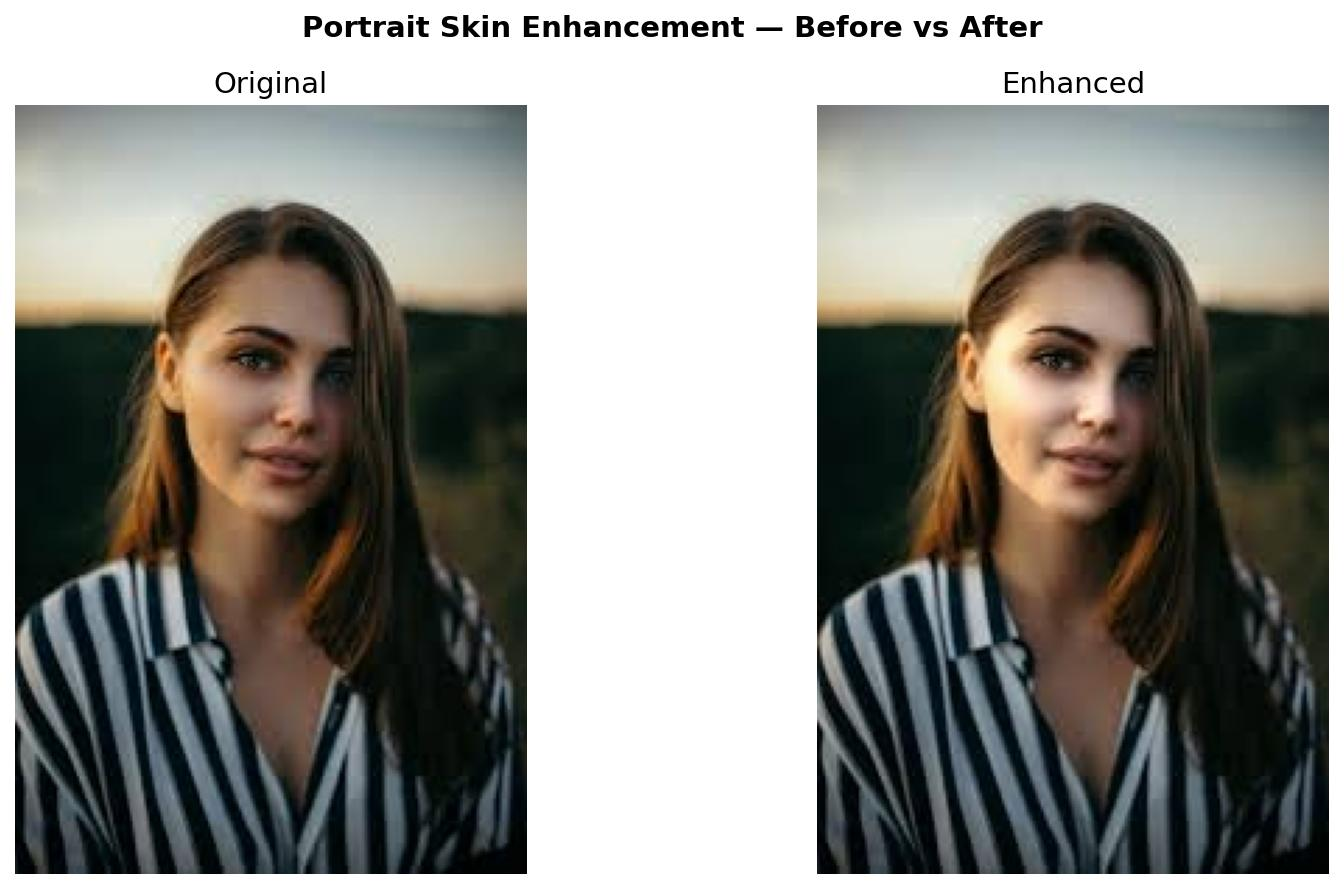
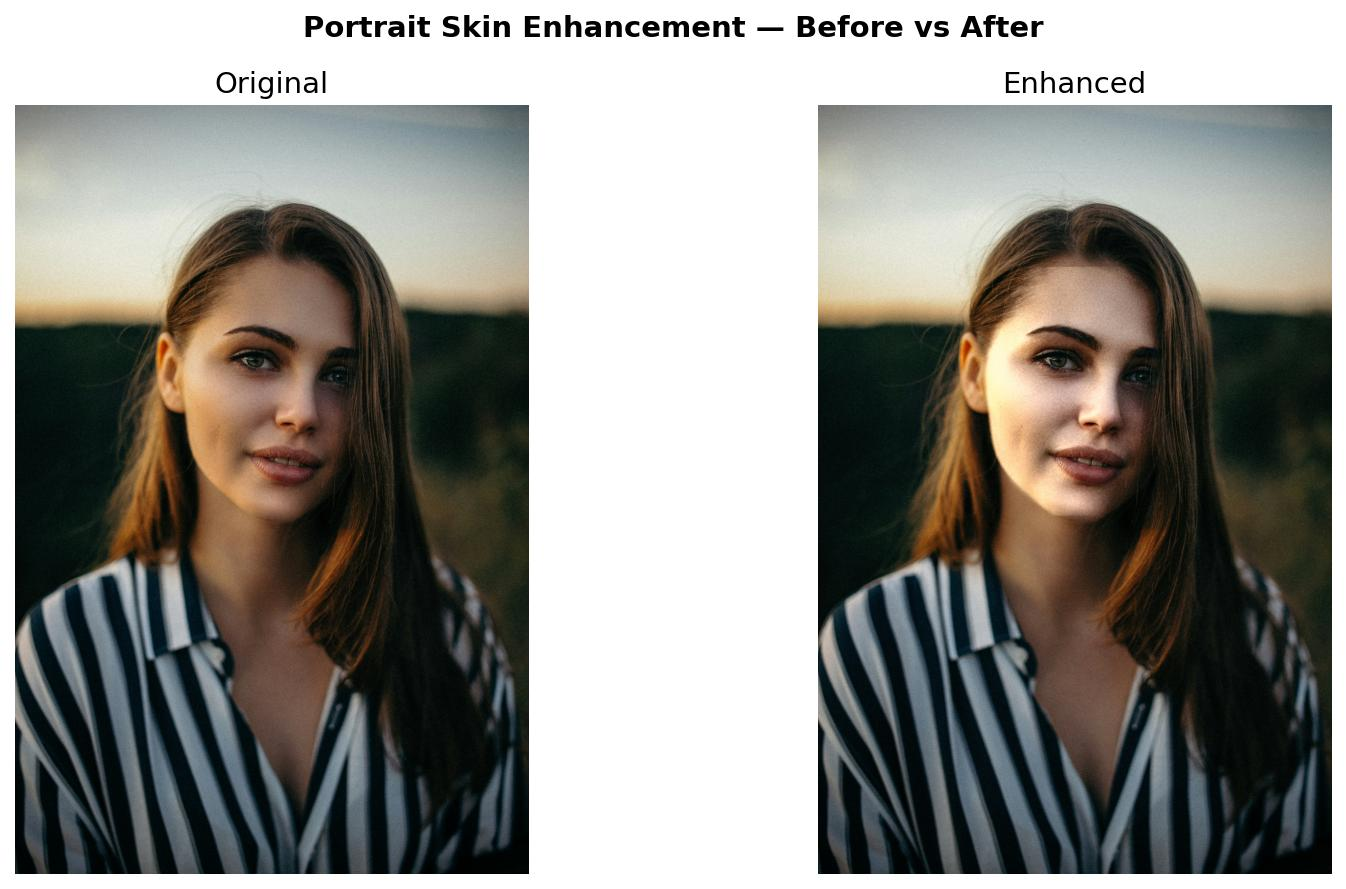
Fix issue, background also including in the mask

diff --git a/src/mask.py b/src/mask.py
@@ -7,28 +7,40 @@ import numpy as np
 def build_skin_mask(img_ycrcb, face_box, landmarks,
                     lower_skin=None, upper_skin=None):
     """
-    Build soft skin mask using dynamic skin color range.
-    If lower/upper not provided, uses default medium skin range.
+    Build soft skin mask using extended convex hull
+    that includes the forehead area above eyebrows.
     """
 
     H, W = img_ycrcb.shape[:2]
     x, y, w, h = face_box
 
-    # Use provided range or fall back to default
     if lower_skin is None:
         lower_skin = np.array([60, 120, 80],  dtype=np.uint8)
     if upper_skin is None:
         upper_skin = np.array([255, 180, 130], dtype=np.uint8)
 
-    # 5a — Threshold skin color
     skin_mask = cv2.inRange(img_ycrcb, lower_skin, upper_skin)
+    all_pts = list(landmarks)
+    forehead_shift = int(h * 0.40)  # shift up by 40% of face height
 
-    # 5b — Restrict to face bounding box
-    face_roi = np.zeros((H, W), dtype=np.uint8)
-    face_roi[y:y+h, x:x+w] = 255
-    skin_mask = cv2.bitwise_and(skin_mask, skin_mask, mask=face_roi)
+    for i in range(17, 27):  # both eyebrows
+        px, py = landmarks[i]
+        # Push point upward
+        new_py = max(0, py - forehead_shift)
+        all_pts.append((px, new_py))
 
-    # 5c — Carve out non-skin features
+    nose_top_x, nose_top_y = landmarks[27]
+    all_pts.append((nose_top_x, max(0, nose_top_y - forehead_shift)))
+
+    all_pts_np = np.array(all_pts, dtype=np.int32)
+    hull = cv2.convexHull(all_pts_np)
+
+    face_shape_mask = np.zeros((H, W), dtype=np.uint8)
+    cv2.fillPoly(face_shape_mask, [hull], 255)
+
+    skin_mask = cv2.bitwise_and(skin_mask, skin_mask,
+                                mask=face_shape_mask)
+
     def make_polygon(indices):
         return np.array(
             [landmarks[i] for i in indices],
@@ -41,14 +53,14 @@ def build_skin_mask(img_ycrcb, face_box, landmarks,
     cv2.fillPoly(skin_mask, [make_polygon(range(22, 27))], 0)
     cv2.fillPoly(skin_mask, [make_polygon(range(48, 68))], 0)
 
-    # 5d — Morphological cleanup
     kernel = cv2.getStructuringElement(cv2.MORPH_ELLIPSE, (7, 7))
     skin_mask = cv2.morphologyEx(skin_mask, cv2.MORPH_OPEN,  kernel)
     skin_mask = cv2.morphologyEx(skin_mask, cv2.MORPH_CLOSE, kernel)
 
-    # 5e — Feather edges
     mask_float = skin_mask.astype(np.float32) / 255.0
-    mask_float = cv2.GaussianBlur(mask_float, (31, 31), sigmaX=15)
+    mask_float = cv2.GaussianBlur(mask_float, (51, 51), sigmaX=20)
 
-    print(f"[mask] Coverage: {(skin_mask > 0).sum() / (H*W) * 100:.1f}%")
+    coverage = (skin_mask > 0).sum() / (H * W) * 100
+    print(f"[mask] Coverage: {coverage:.1f}%")
+
     return mask_float

diff --git a/main_test.py b/main_test.py
@@ -1,0 +1,19 @@
+import cv2, matplotlib
+matplotlib.use('Agg')
+import matplotlib.pyplot as plt
+original = cv2.imread('input/test9.jpg')
+enhanced = cv2.imread('output/enhanced.jpg')
+plt.figure(figsize=(12, 6))
+plt.subplot(1, 2, 1)
+plt.imshow(cv2.cvtColor(original, cv2.COLOR_BGR2RGB))
+plt.title('Original', fontsize=14)
+plt.axis('off')
+plt.subplot(1, 2, 2)
+plt.imshow(cv2.cvtColor(enhanced, cv2.COLOR_BGR2RGB))
+plt.title('Enhanced', fontsize=14)
+plt.axis('off')
+plt.suptitle('Portrait Skin Enhancement — Before vs After',
+             fontsize=14, fontweight='bold')
+plt.tight_layout()
+plt.savefig('assets/before_after.jpg', dpi=150, bbox_inches='tight')
+print('Saved to assets/before_after.jpg')

diff --git a/main.py b/main.py
@@ -16,7 +16,7 @@ print("  Portrait Skin Enhancement Pipeline")
 print("=" * 55)
 
 print("\n[STEP 1] Loading image...")
-bgr, gray, ycrcb = load_image('input/test5.jpg')
+bgr, gray, ycrcb = load_image('input/test9.jpg')
 img_rgb = cv2.cvtColor(bgr, cv2.COLOR_BGR2RGB)
 print("  STATUS: OK")
 
@@ -46,7 +46,6 @@ img_smooth = smooth_skin(bgr, face_box,
                         strength=params['strength'])
 print("  STATUS: OK")
 
-# ── Step 7 — Tone ─────────────────────────────────────────
 print("\n[STEP 7] Tone enhancement...")
 img_tone = enhance_tone(
     img_smooth, face_box, mask,

diff --git a/src/tone.py b/src/tone.py
@@ -19,6 +19,8 @@ def enhance_tone(img_bgr, face_box, mask_float, brightness_boost=1.0):
     face_crop = img_bgr[y:y+h, x:x+w]
     face_mask = mask_float[y:y+h, x:x+w]
 
+    face_mask = cv2.GaussianBlur(face_mask, (51, 51), sigmaX=20)
+
     # Convert to YCrCb
     face_ycrcb = cv2.cvtColor(face_crop, cv2.COLOR_BGR2YCrCb)
     Y = face_ycrcb[:, :, 0].astype(np.float32)
